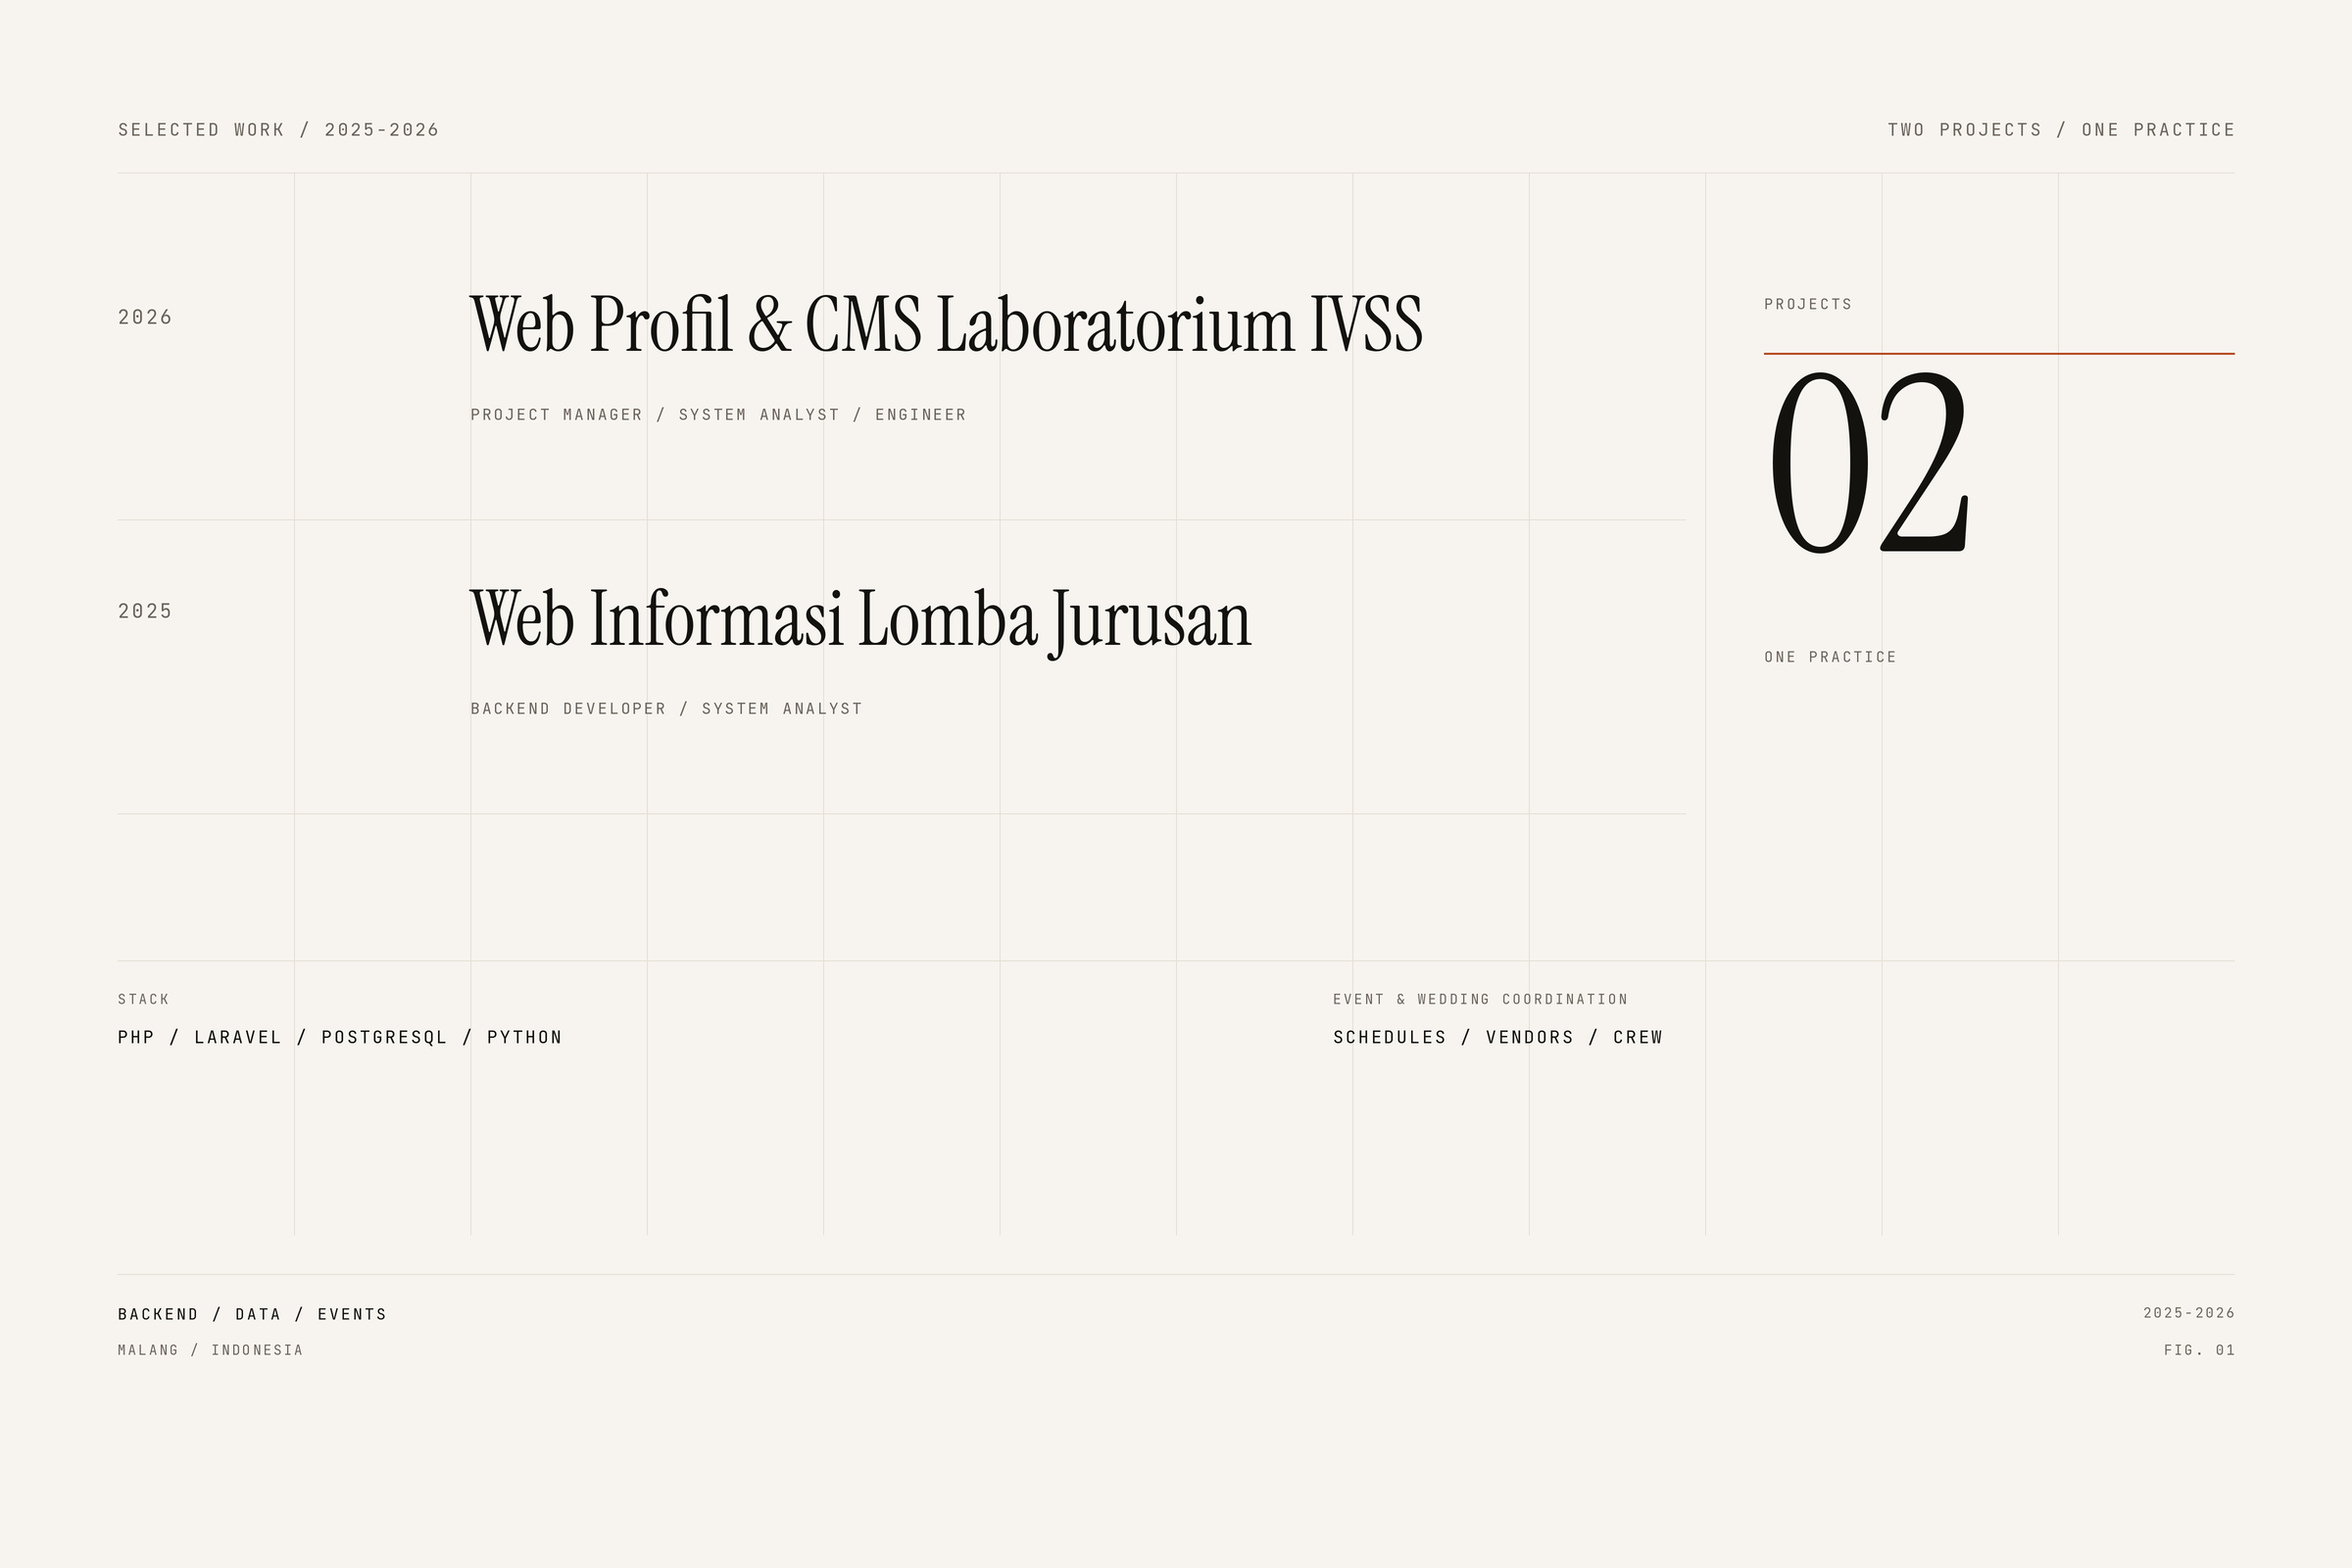
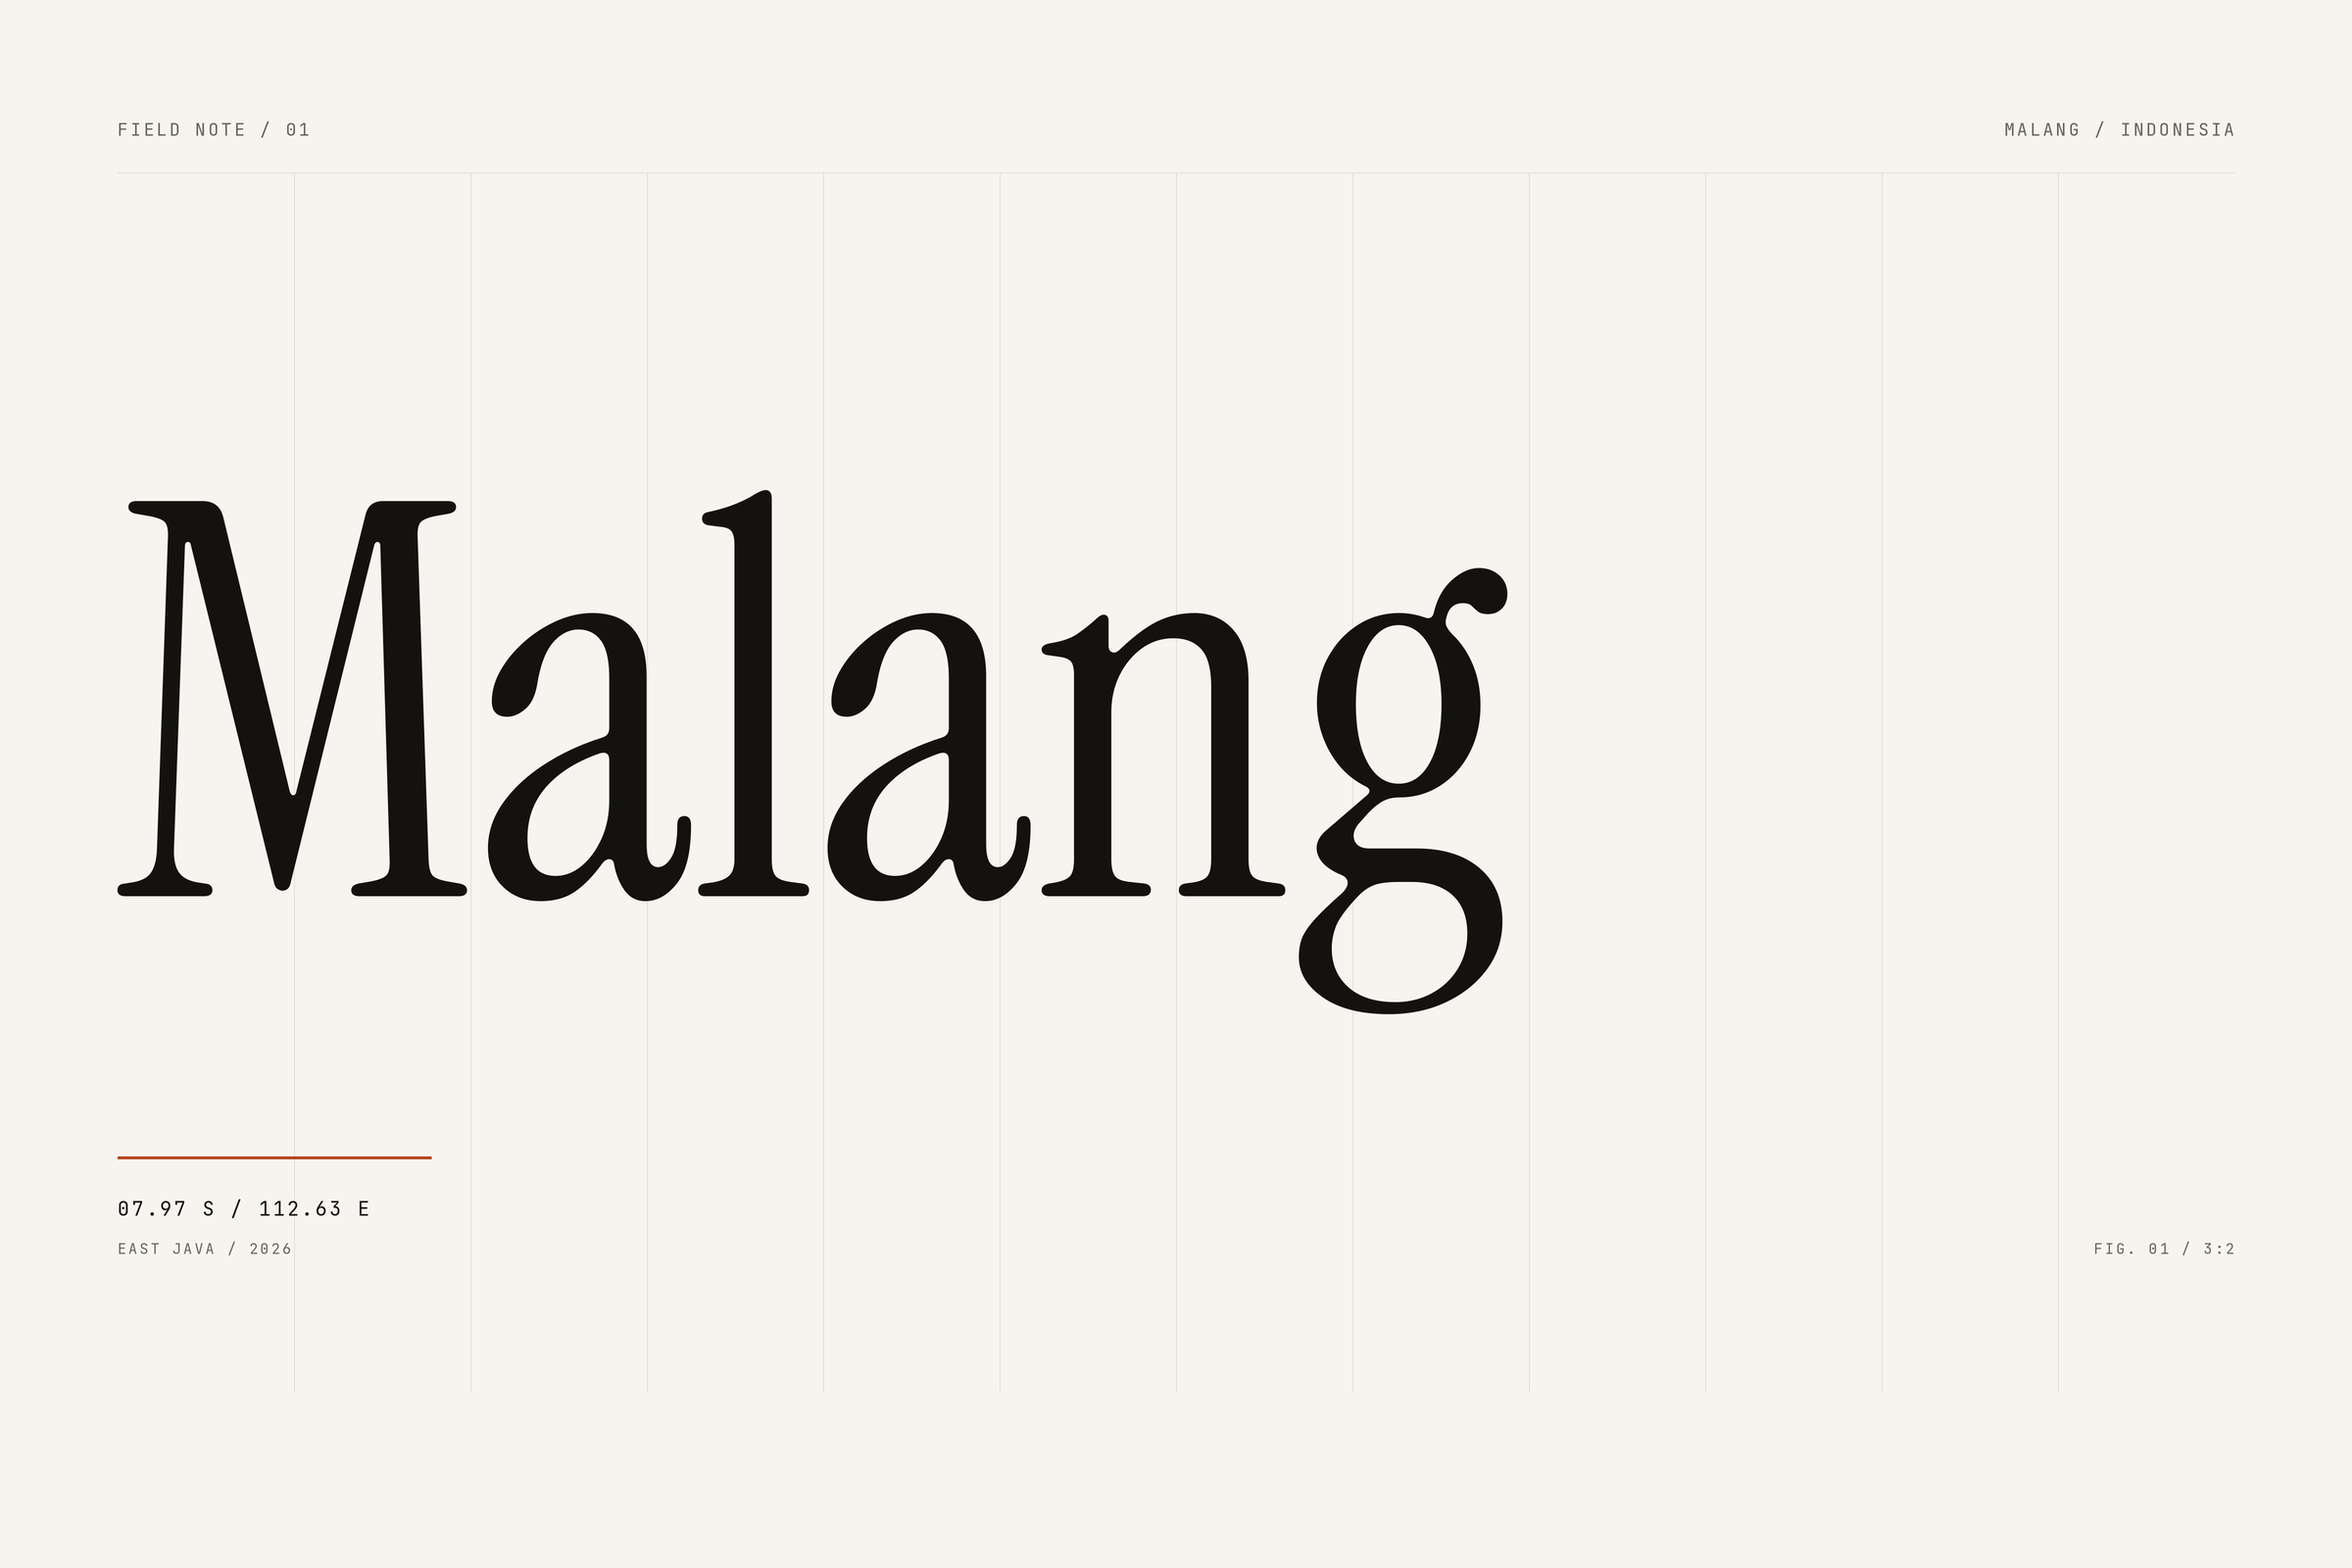
design: replace index band with a place plate

diff --git a/design/plates/make_plates.py b/design/plates/make_plates.py
@@ -162,42 +162,20 @@ def home_band():
     inner = 2400 - 2 * m
 
     for i in range(1, 12):
-        s.vline(m + (inner * i) / 12, 176, 1260, RULE, 1)
+        s.vline(m + (inner * i) / 12, 176, 1420, RULE, 1)
 
-    s.mono("SELECTED WORK / 2025-2026", m, m, 18, MUTED, 2.4)
-    s.mono_right("TWO PROJECTS / ONE PRACTICE", 2400 - m, m, 18, MUTED, 2.4)
+    s.mono("FIELD NOTE / 01", m, m, 18, MUTED, 2.4)
+    s.mono_right("MALANG / INDONESIA", 2400 - m, m, 18, MUTED, 2.4)
     s.hline(m, 2400 - m, m + 56)
 
-    rows = [
-        ("2026", "Web Profil & CMS Laboratorium IVSS", "PROJECT MANAGER / SYSTEM ANALYST / ENGINEER"),
-        ("2025", "Web Informasi Lomba Jurusan", "BACKEND DEVELOPER / SYSTEM ANALYST"),
-    ]
+    size = s.fit(SERIF, "Malang", 1800, 560)
+    s.serif("Malang", m - 8, 500, size)
 
-    y = 300
-    for year, title, role in rows:
-        s.mono(year, m, y + 10, 20, MUTED, 2.4)
-        size = s.fit(SERIF, title, 1150, 78)
-        s.serif(title, 480, y, size)
-        s.mono(role, 480, y + 112, 16, MUTED, 2.2)
-        s.hline(m, 1720, y + 230)
-        y += 300
+    s.hline(m, m + 320, 1180, SIGNAL, 3)
+    s.mono("07.97 S / 112.63 E", m, 1220, 20, INK, 2.4)
+    s.mono("EAST JAVA / 2026", m, 1264, 15, MUTED, 2.2)
 
-    s.mono("PROJECTS", 1800, 300, 15, MUTED, 2.4)
-    s.hline(1800, 2280, 360, SIGNAL, 2)
-    s.serif("02", 1800, 380, 250)
-    s.mono("ONE PRACTICE", 1800, 660, 15, MUTED, 2.4)
-
-    s.hline(m, 2400 - m, 980, RULE)
-    s.mono("STACK", m, 1010, 14, MUTED, 2.4)
-    s.mono("PHP / LARAVEL / POSTGRESQL / PYTHON", m, 1046, 18, INK, 2.2)
-    s.mono("EVENT & WEDDING COORDINATION", 1360, 1010, 14, MUTED, 2.4)
-    s.mono("SCHEDULES / VENDORS / CREW", 1360, 1046, 18, INK, 2.2)
-
-    s.hline(m, 2400 - m, 1300)
-    s.mono("BACKEND / DATA / EVENTS", m, 1330, 16, INK, 2.4)
-    s.mono("MALANG / INDONESIA", m, 1368, 14, MUTED, 2.2)
-    s.mono_right("2025-2026", 2400 - m, 1330, 14, MUTED, 2.2)
-    s.mono_right("FIG. 01", 2400 - m, 1368, 14, MUTED, 2.2)
+    s.mono_right("FIG. 01 / 3:2", 2400 - m, 1264, 15, MUTED, 2.2)
     return s, IMAGE_DIR / "home-band.png"
 
 

diff --git a/design/CANVAS.md b/design/CANVAS.md
@@ -28,7 +28,8 @@ tanda signal yang menandai hubungan atau baris yang penting.
   kolom, atau izin yang dikarang untuk mengisi ruang.
 - Runsheet acara diberi label TEMPLATE karena bukan catatan satu acara tertentu.
 - Nomor `FIG. 0x` adalah bagian dari gambar, bukan label sementara. Saat foto
-  menggantikan plat, nomor dan caption pindah ke `<figcaption>` di halaman.
+  menggantikan plat, nomor itu ikut hilang; caption di halaman tetap bekerja
+  karena hidup di `<figcaption>`, bukan di dalam berkas gambar.
 - Setiap plat punya area yang aman untuk crop 3:2 atau 4:5; tidak ada teks yang
   menyentuh tepi.
 
@@ -37,7 +38,7 @@ tanda signal yang menandai hubungan atau baris yang penting.
 | Fig. | Berkas | Ukuran | Isi |
 |---|---|---|---|
 | 00 | `public/images/portrait.png` | 1200×1500 | Plat potret 4:5 |
-| 01 | `public/images/home-band.png` | 2400×1600 | Indeks karya, band 3:2 |
+| 01 | `public/images/home-band.png` | 2400×1600 | Plat tempat, band 3:2 |
 | 02 | `public/images/ivss-01.png` | 2400×1600 | Skema relasional IVSS |
 | 03 | `public/images/ivss-02.png` | 2400×1600 | Peta modul dan peran |
 | 04 | `public/images/lomba-01.png` | 2400×1600 | Alur entitas lomba |
